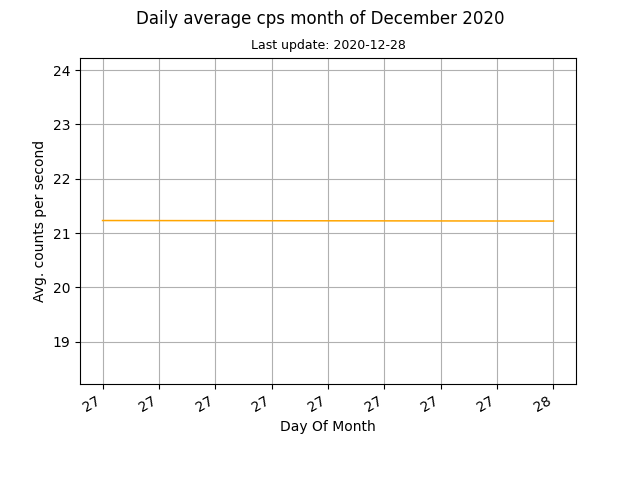
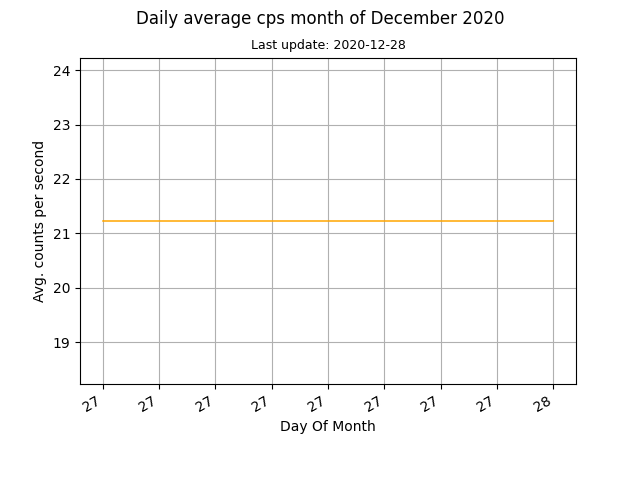
auto data update

diff --git a/docs/index.html b/docs/index.html
@@ -45,8 +45,8 @@
 	
 	<br>
 	
-	<p>Current counts per second (cps): 21.16</p>
-	<p>Last update: 2020-12-28, 04:07</p>
+	<p>Current counts per second (cps): 21.24</p>
+	<p>Last update: 2020-12-28, 04:22</p>
 
 	<p><a href="images/monthly.png"><img src="images/monthly.png" alt="Mothly avg cps data"></a><a href="images/daily.png"><img src="images/daily.png" alt="Daily avg cps data"></a></p>
 	
